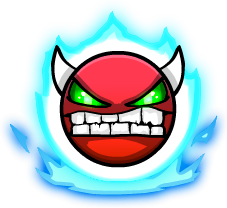
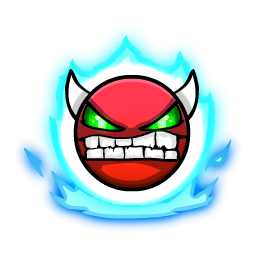
1.1.1 - Improved visuals, difficulty faces…

diff --git a/public/seagdps/demonlist/styles.css b/public/seagdps/demonlist/styles.css
@@ -15,7 +15,7 @@ h2 {
 	font-size: 40px;
 	font-weight: normal;
 	margin: 0;
-	padding: 20px;
+	padding: 0;
 }
 
 p, li {
@@ -37,19 +37,65 @@ abbr {
 
 .id {
 	position: absolute;
-	top: 10px;
+	bottom: 10px;
 	right: 10px;
 	font-size: 15px;
 	margin: 0;
 	z-index: 3;
+	opacity: 75%;
 }
 
 .victors {
 	margin-top: 20px;
 }
 
+/* Difficulty */
 .difficulty {
-	margin: 20px;
+	z-index: 2;
+	transition: transform 0.5s ease;
+}
+
+.difficulty[rating="2"] {
+	filter: drop-shadow(0 0 3px rgba(255, 255, 0, 0.5));
+}
+
+.difficulty[rating="3"] {
+	animation: epicPulse 3s infinite ease-in-out;
+}
+
+.difficulty[rating="4"] {
+	animation: legendaryPulse 3s infinite ease-in-out;
+}
+
+.difficulty[rating="5"] {
+	animation: mythicPulse 3s infinite ease-in-out;
+}
+
+@keyframes epicPulse {
+	0%, 100% {
+		filter: drop-shadow(0 0 5px rgba(255, 255, 0, 0.75));
+	}
+	50% {
+		filter: drop-shadow(0 0 10px rgb(255, 255, 0));
+	}
+}
+
+@keyframes legendaryPulse {
+	0%, 100% {
+		filter: drop-shadow(0 0 10px rgba(191, 64, 255, 0.75));
+	}
+	50% {
+		filter: drop-shadow(0 0 25px rgb(191, 64, 255));
+	}
+}
+
+@keyframes mythicPulse {
+	0%, 100% {
+		filter: drop-shadow(0 0 10px rgba(0, 255, 255, 0.75));
+	}
+	50% {
+		filter: drop-shadow(0 0 30px rgb(0, 255, 255));
+	}
 }
 
 .level-card {
@@ -64,8 +110,12 @@ abbr {
 	backdrop-filter: blur(12px);
 	-webkit-backdrop-filter: blur(12px);
 	border: 1px solid rgba(255, 255, 255, 0.1);
-	box-shadow: 0 8px 32px 0 rgba(0, 0, 0, 0.37);
+	box-shadow: 0 5px 20px 0 rgba(229, 31, 46, 0.5);
 	transition: transform 0.2s ease-in-out;
+}
+
+.level-card:hover {
+	transform: translateY(-2px);
 }
 
 .level-thumbnail {
@@ -76,24 +126,27 @@ abbr {
 	border-radius: 12px;
 	flex-shrink: 0;
 	border: 1px solid white;
+	box-shadow: 0 10px 30px rgba(0, 0, 0, 0.5);
+	transition: transform 0.5s ease;
+}
+
+.level-thumbnail:hover {
+	transform: scale(1.01);
 }
 
 .level-info {
 	flex: 1;
-	padding-left: 20px;
+	padding-left: 30px;
 	display: flex;
 	flex-direction: column;
 	justify-content: center;
-}
-
-.level-card:hover {
-	transform: translateY(-5px);
 }
 
 .level-title {
 	display: flex;
 	align-items: center;
 	flex-direction: row;
+	gap: 25px;
 }
 
 .main {
@@ -115,7 +168,24 @@ abbr {
 	}
 
 	h2 {
-		font-size: 25px;
+		font-size: 30px;
+	}
+
+	.level-card {
+		flex-direction: column;
+		width: 85vw;
+	}
+
+	.level-thumbnail {
+		order: 2;
+		width: 50%;
+		margin-top: 10px;
+	}
+
+	.level-info {
+		order: 1;
+		padding-left: 0;
+		width: 100%;
 	}
 
 	.level-card p, .level-card li {
@@ -123,6 +193,7 @@ abbr {
 	}
 
 	.difficulty {
-		width: 60px;
+		width: 100px;
+		height: 100px;
 	}
 }

diff --git a/public/seagdps/styles.css b/public/seagdps/styles.css
@@ -65,23 +65,23 @@ main a {
 }
 
 .demonlist {
-	background: linear-gradient(135deg, rgb(145, 0, 0), rgb(229, 31, 46))
+	background: linear-gradient(135deg, rgb(145, 0, 0), rgb(229, 31, 46));
+	filter: drop-shadow(0 0 10px rgba(229, 31, 46, 0.5));
 }
 
 .rules {
-	background: linear-gradient(135deg, rgb(47, 47, 47), rgb(117, 117, 117))
+	background: linear-gradient(135deg, rgb(47, 47, 47), rgb(117, 117, 117));
+	filter: drop-shadow(0 0 10px rgba(117, 117, 117, 0.5));
 }
 
 .requirements {
-	background: linear-gradient(135deg, rgb(91, 22, 152), rgb(116, 0, 255))
-}
-
-.discord {
-	background: linear-gradient(135deg, rgb(17, 66, 157), rgb(0, 101, 255))
+	background: linear-gradient(135deg, rgb(91, 22, 152), rgb(116, 0, 255));
+	filter: drop-shadow(0 0 10px rgba(116, 0, 255, 0.5));
 }
 
 .youtube {
-	background: linear-gradient(135deg, rgb(206, 0, 0), rgb(255, 55, 71))
+	background: linear-gradient(135deg, rgb(206, 0, 0), rgb(255, 55, 71));
+	filter: drop-shadow(0 0 10px rgba(255, 55, 71, 0.5));
 }
 
 /* Mobile */

diff --git a/public/seagdps/requirements/index.html b/public/seagdps/requirements/index.html
@@ -44,7 +44,7 @@
 					<li><strong>Feature</strong> - At least <strong>30</strong> seconds long. Your level needs to have pretty decent deco and good gameplay, otherwise great gameplay with relatively simple deco. For example: "<strong>Teresa and Maria</strong>" by CrazyFlyKite.</li>
 					<li><strong>Epic</strong> - At least <strong>30</strong> seconds long. Your level should have good deco with great gameplay. For example: "<strong>adrenaline</strong>" by SeaCarrrot.</li>
 					<li><strong>Legendary</strong> - At least <strong>30</strong> seconds long. Your level should have very good gameplay with excellent deco, and just overall a great level.</li>
-					<li><strong>Mythic</strong> - Pretty self-explanatory. At least <strong>45</strong> seconds long. Your level has to be amazing overall. Most people should agree it's a very good level. Or, otherwise, it's a stupid joke level :3</li>
+					<li><strong>Mythic</strong> - Stupid joke level :3</li>
 				</ul>
 			</div>
 		</main>

diff --git a/public/seagdps/index.html b/public/seagdps/index.html
@@ -32,10 +32,9 @@
 			<div class="horizontal-line">
 				<a href="/seagdps/demonlist" class="demonlist" aria-label="Demonlist">Demonlist</a>
 				<a href="/seagdps/rules" class="rules" aria-label="Rules">Rules</a>
-				<a href="/seagdps/requirements" class="requirements" aria-label="Requirements">Requirements</a>
 			</div>
 			<div class="horizontal-line">
-				<a href="https://discord.gg/JqRBm67mf6" class="discord" target="_blank" rel="noopener" aria-label="Discord">Discord <i class="fa-brands fa-discord"></i></a>
+				<a href="/seagdps/requirements" class="requirements" aria-label="Requirements">Requirements</a>
 				<a href="https://www.youtube.com/@SeaGDPS" class="youtube" target="_blank" rel="noopener" aria-label="YouTube">YouTube <i class="fa-brands fa-youtube"></i></a>
 			</div>
 		</main>

diff --git a/public/seagdps/demonlist/index.js b/public/seagdps/demonlist/index.js
@@ -37,7 +37,7 @@ function createLevel(placement, id, name, publisher, creators, verifier, difficu
 		navigator.clipboard.writeText(id).then(() => {
 			const originalText = idElement.innerHTML;
 			idElement.innerHTML = 'Copied!';
-			idElement.style.color = '#00ff00';
+			idElement.style.color = '#00FF00';
 
 			setTimeout(() => {
 				idElement.innerHTML = originalText;
@@ -47,6 +47,9 @@ function createLevel(placement, id, name, publisher, creators, verifier, difficu
 			console.error('Failed to copy: ', error);
 		});
 	};
+
+	// Difficulty
+	clone.querySelector('.difficulty').setAttribute('rating', rating);
 
 	// Victors
 	const victorsList = clone.querySelector('.victors-list');

diff --git a/public/styles.css b/public/styles.css
@@ -24,7 +24,7 @@ header img {
 }
 
 header img:hover {
-	transform: rotate(3deg) scale(1.03);
+	transform: rotate(1deg) scale(1.02);
 	box-shadow: 0 0 60px rgb(39, 92, 176);
 }
 
@@ -144,7 +144,7 @@ section {
 	border: 1px solid rgba(255, 255, 255, 0.1);
 	border-radius: 16px;
 	padding: 20px;
-	box-shadow: 0 8px 32px 0 rgba(0, 0, 0, 0.37);
+	box-shadow: 0 0 10px rgba(45, 158, 2040, 0.5);
 	transition: transform 0.3s ease;
 }
 

diff --git a/public/seagdps/demonlist/index.html b/public/seagdps/demonlist/index.html
@@ -42,7 +42,7 @@
 				<div class="level-info">
 					<div class="level-title">
 						<h2 class="title"></h2>
-						<img class="difficulty" height="80" alt="Difficulty face">
+						<img class="difficulty" width="125" height="125" alt="Difficulty face">
 					</div>
 					<div class="main">
 						<p class="creators"></p>

diff --git a/public/seagdps/requirements/styles.css b/public/seagdps/requirements/styles.css
@@ -35,12 +35,12 @@ abbr {
 
 .requirements-container h3 {
 	font-size: 50px;
-	margin: 10px;
+	margin: 20px;
 }
 
 .requirements-container h4 {
 	font-size: 25px;
-	margin: 10px;
+	margin: 0;
 }
 
 /* Mobile  */

diff --git a/public/seagdps/rules/styles.css b/public/seagdps/rules/styles.css
@@ -35,12 +35,12 @@ abbr {
 
 .rules-container h3 {
 	font-size: 50px;
-	margin: 10px;
+	margin: 20px;
 }
 
 .rules-container h4 {
 	font-size: 25px;
-	margin: 10px;
+	margin: 0;
 }
 
 /* Mobile */

diff --git a/CHANGELOG.md b/CHANGELOG.md
@@ -1,6 +1,13 @@
 # Changelog
 
-## 1.1.0 | 14.02.2026
+## 1.1.1 | 16.02.2026
+
+- Fixed the Demonlist for mobile
+- Improved difficulty faces
+- Added more glow
+- Edited the requirements
+
+## 1.1.0 | 15.02.2026
 
 - Added level thumbnails
 - Added copyable IDs
